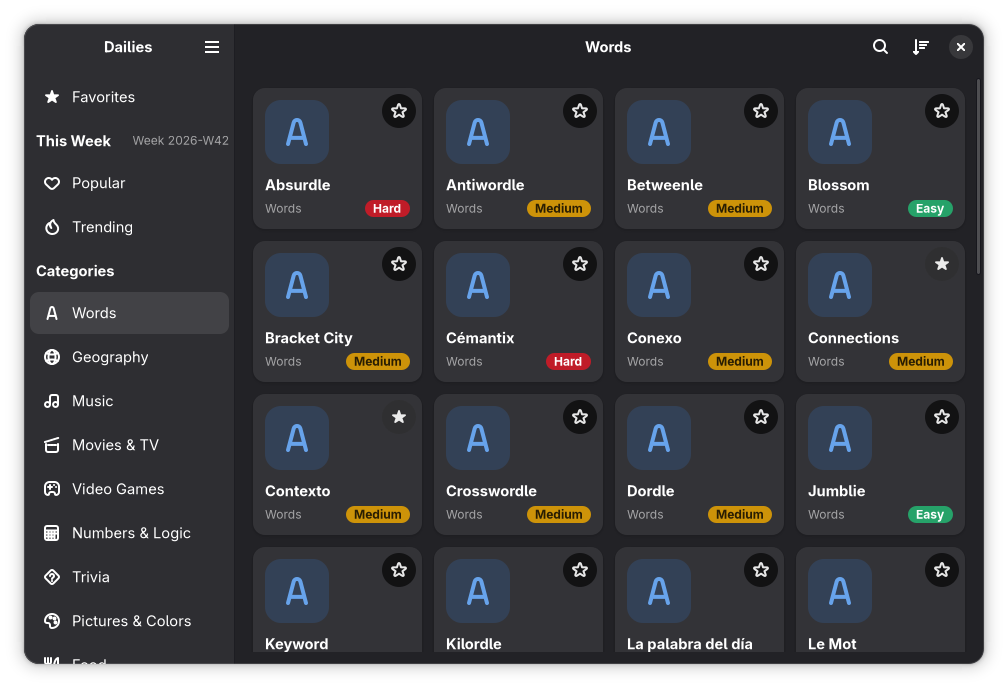
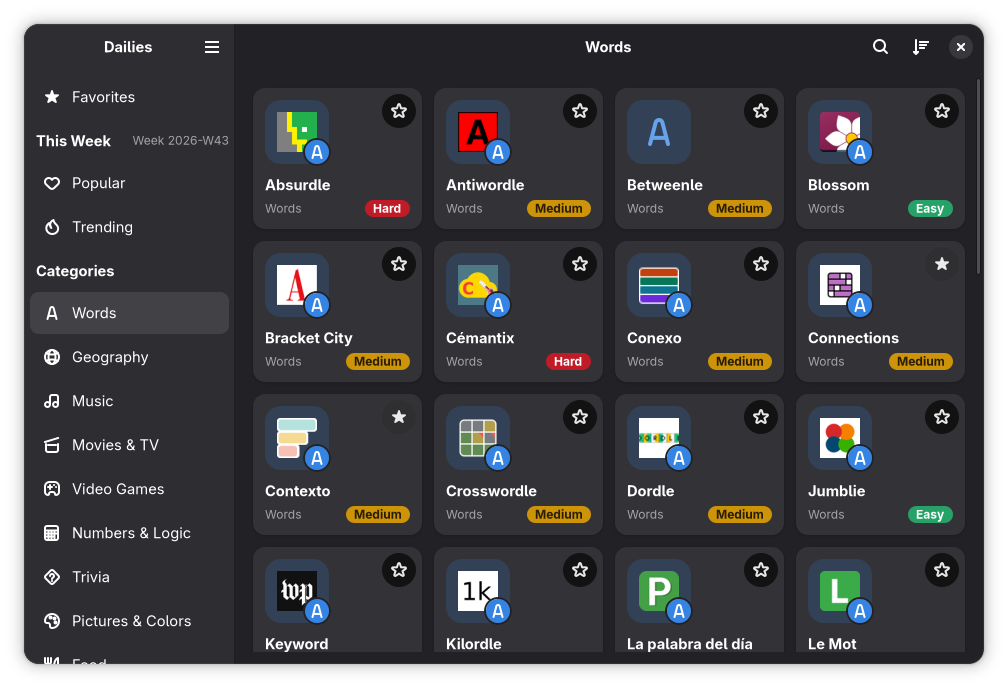
feat(content): show the current Dailies screenshots on its project page (#920)
Copies Dailies' re-rendered screenshots 1, 2 and 4 (Dailies#232) over
favorites.png, popular.png and dark-style.png. built-in-browser.png stays,
because Dailies left 3.png unchanged.

The favorites alt text now mentions the game icons and category badges,
and the popular alt text names the new first row (Pinpoint, Queens,
Wordle and Connections).

diff --git a/content/Dailies.md b/content/Dailies.md
@@ -47,13 +47,13 @@ The sidebar sorts the games into ten categories: Words, Numbers & Logic, Movies 
 
 Star the games you play every day, or press `Ctrl` `D`, and they come together under Favorites at the top of the sidebar, in the order you choose. Starred something by accident? You can undo it. Once you have played a game, you can mark it as done today, by hand or automatically, so you can see at a glance what is still left. Your favourites can be exported to a file and imported on another computer.
 
-![The Favorites section of Dailies with eight starred games, among them Wordle, Connections and Worldle, each with its category and a difficulty badge](/content-assets/images/dailies/favorites.png)
+![The Favorites section of Dailies with eight starred games, among them Wordle, Connections and Worldle, each with its own icon, a category badge on the icon's corner and a difficulty badge](/content-assets/images/dailies/favorites.png)
 
 ## See what's popular this week
 
 Under This Week, two shelves show what other people are playing. Popular lists the games that are popular right now, and Trending the ones that are on the rise. Both are worked out every Monday from the [Tranco](https://tranco-list.eu) rank of each game's website, and Dailies picks up the new shelves the next time it refreshes, without needing an update.
 
-![The Popular shelf for this week, with Wordle, Connections, Strands and The Mini Crossword in the first row](/content-assets/images/dailies/popular.png)
+![The Popular shelf for this week, with Pinpoint, Queens, Wordle and Connections in the first row](/content-assets/images/dailies/popular.png)
 
 ## Light or dark, it follows your style
 
